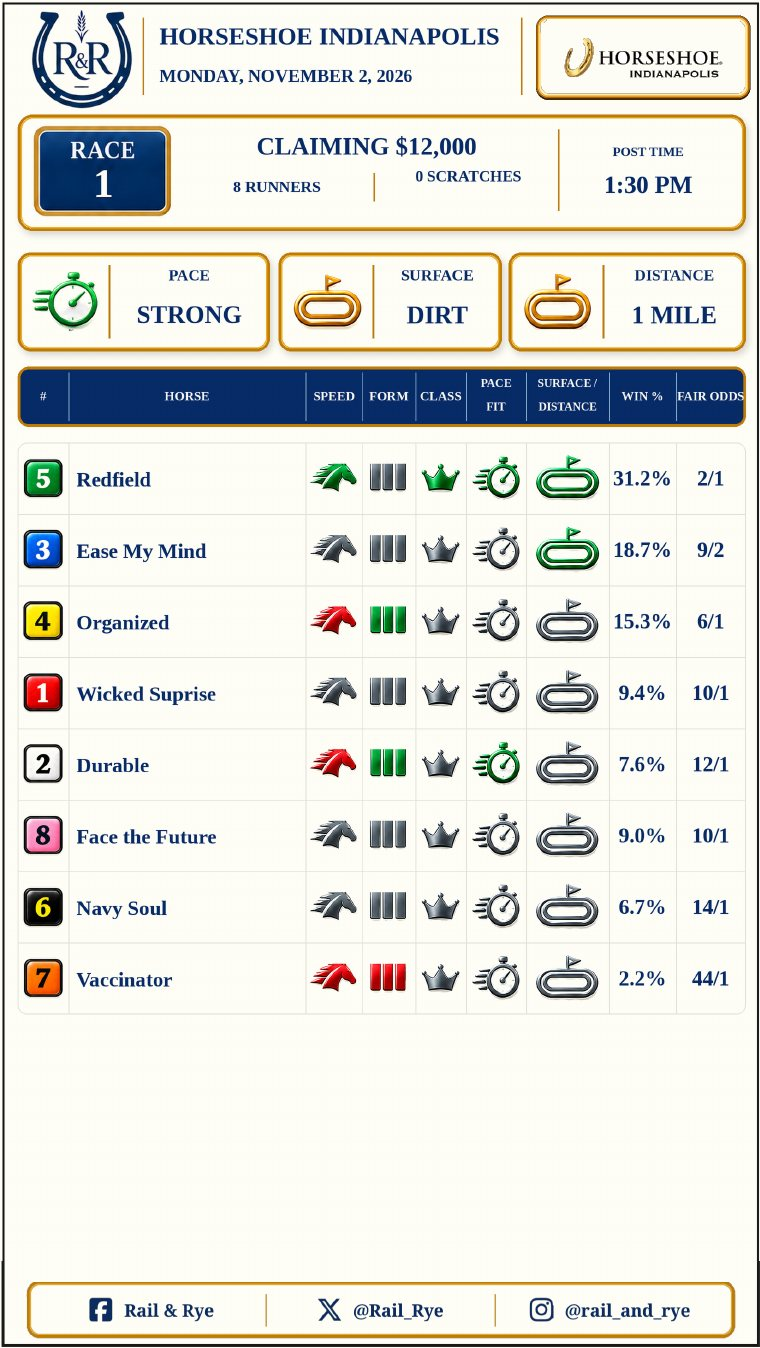
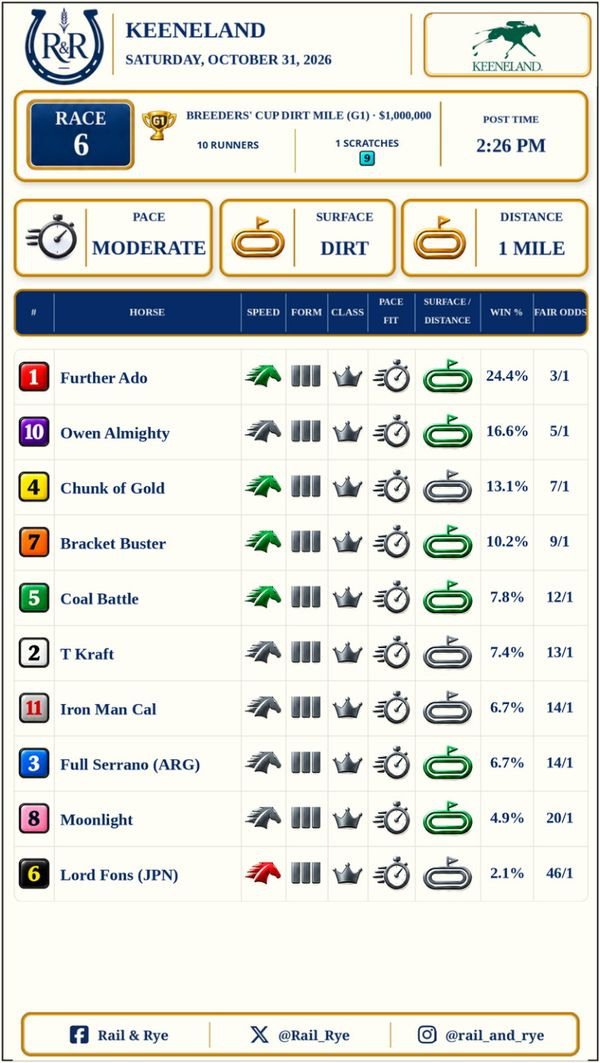
Use corrected Keeneland Race 6 sample and sharpen anatomy connectors

diff --git a/public/assets/rail-rye-samples.css b/public/assets/rail-rye-samples.css
@@ -55,7 +55,7 @@
 .rr-anatomy-visual{position:relative;margin-left:29px;border:1px solid rgba(176,132,65,.7);border-radius:5px;background:#fffdf7;box-shadow:0 20px 42px rgba(12,29,39,.19),0 4px 12px rgba(12,29,39,.1)}
 .rr-anatomy-visual img{display:block;width:100%;height:auto;border-radius:4px}
 .rr-anatomy-pin{position:absolute;left:-30px;display:grid;place-items:center;width:26px;height:26px;border:1px solid #e2bc70;border-radius:50%;background:#09283a;color:#f7e5c4;font:800 11px/1 var(--heritage-sans);box-shadow:0 0 0 3px rgba(255,251,241,.95),0 5px 13px rgba(10,27,38,.35);z-index:2}
-.rr-anatomy-pin:after{position:absolute;content:"";left:23px;top:11px;width:14px;height:2px;background:#c99546;box-shadow:0 1px 4px rgba(20,30,34,.35)}
+.rr-anatomy-pin:before{position:absolute;content:"";left:12px;top:24px;width:1px;height:7px;background:#bd8840}.rr-anatomy-pin:after{position:absolute;content:"";left:12px;top:30px;width:25px;height:1px;background:#bd8840;box-shadow:none}
 .rr-anatomy-pin--one{top:4.7%}
 .rr-anatomy-pin--two{top:19%}
 .rr-anatomy-pin--three{top:30%}
@@ -75,7 +75,7 @@
 .rr-samples-disclaimer{margin-top:18px;padding-left:2px}
 @media(max-width:900px){.rr-anatomy-card{grid-template-columns:minmax(220px,.75fr) minmax(0,1.25fr);gap:25px}.rr-anatomy-figure figcaption{align-items:flex-start;flex-direction:column;gap:4px}}
 @media(max-width:640px){.rr-anatomy-card{grid-template-columns:1fr;gap:25px;padding:22px 19px}.rr-anatomy-card--reverse .rr-anatomy-figure,.rr-anatomy-card--reverse .rr-anatomy-copy{order:initial}.rr-anatomy-figure{max-width:390px}.rr-anatomy-copy h3{font-size:35px}.rr-anatomy-intro{font-size:13px;line-height:1.7}.rr-anatomy-notes p{font-size:12px}.rr-anatomy-figure figcaption{flex-direction:row;align-items:center;flex-wrap:wrap}.rr-sample-showcases{gap:17px}}
-@media(max-width:390px){.rr-anatomy-card{padding:19px 15px}.rr-anatomy-visual{margin-left:25px}.rr-anatomy-pin{left:-26px;width:23px;height:23px}.rr-anatomy-pin:after{left:20px;top:10px;width:12px}.rr-anatomy-figure figcaption{margin-left:25px}.rr-anatomy-figure figcaption span{font-size:7px}.rr-anatomy-copy h3{font-size:32px}}
+@media(max-width:390px){.rr-anatomy-card{padding:19px 15px}.rr-anatomy-visual{margin-left:25px}.rr-anatomy-pin{left:-26px;width:23px;height:23px}.rr-anatomy-pin:before{left:11px;top:21px;height:6px}.rr-anatomy-pin:after{left:11px;top:26px;width:23px}.rr-anatomy-figure figcaption{margin-left:25px}.rr-anatomy-figure figcaption span{font-size:7px}.rr-anatomy-copy h3{font-size:32px}}
 
 .rr-anatomy-visual--longshot .rr-anatomy-pin--one{top:15.5%}
 .rr-anatomy-visual--longshot .rr-anatomy-pin--two{top:20.3%}

diff --git a/public/samples/index.html b/public/samples/index.html
@@ -15,7 +15,7 @@
 <link rel="stylesheet" href="/assets/rail-rye-core.css?v=12">
 <link rel="stylesheet" href="/assets/rail-rye-components.css?v=9">
 <link rel="stylesheet" href="/assets/rail-rye-pages.css?v=53">
-<link rel="stylesheet" href="/assets/rail-rye-samples.css?v=3">
+<link rel="stylesheet" href="/assets/rail-rye-samples.css?v=4">
 <link rel="preconnect" href="https://fonts.googleapis.com">
 <link rel="preconnect" href="https://fonts.gstatic.com" crossorigin>
 </head>
@@ -51,12 +51,12 @@
     <article class="rr-anatomy-card" id="race-cards">
      <figure class="rr-anatomy-figure">
       <div class="rr-anatomy-visual rr-anatomy-visual--race-card">
-       <img src="/assets/samples/race-card-example.jpg" alt="Sample Rail &amp; Rye Race Card page for Horseshoe Indianapolis race 1 on November 2, 2026, showing race conditions and a full-field comparison." width="760" height="1349" loading="lazy" decoding="async">
+       <img src="/assets/samples/race-card-example.jpg" alt="Sample Rail &amp; Rye Race Card page for Keeneland race 6 on October 31, 2026, showing the Breeders' Cup Dirt Mile (G1), race conditions and a full-field comparison." width="600" height="1063" loading="lazy" decoding="async">
        <span class="rr-anatomy-pin rr-anatomy-pin--one" aria-hidden="true">1</span>
        <span class="rr-anatomy-pin rr-anatomy-pin--two" aria-hidden="true">2</span>
        <span class="rr-anatomy-pin rr-anatomy-pin--three" aria-hidden="true">3</span>
       </div>
-      <figcaption><span>RACE CARDS · SAMPLE PAGE · NOVEMBER 2, 2026</span><a href="/assets/samples/race-card-example.jpg" target="_blank" rel="noopener noreferrer">Open full-size sample ↗</a></figcaption>
+      <figcaption><span>RACE CARDS · SAMPLE PAGE · OCTOBER 31, 2026</span><a href="/assets/samples/race-card-example.jpg" target="_blank" rel="noopener noreferrer">Open full-size sample ↗</a></figcaption>
      </figure>
      <div class="rr-anatomy-copy">
       <div class="rr-anatomy-heading"><span class="rr-sample-index">01</span><span class="rr-sample-category">RACE-DAY ANALYSIS</span></div>
